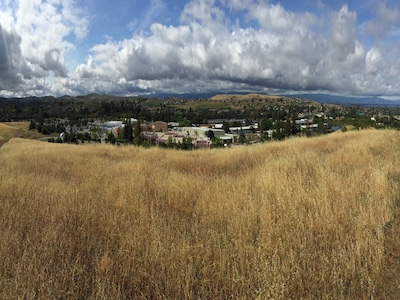
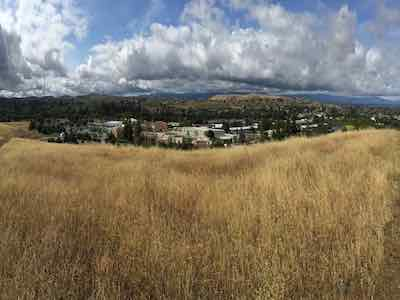
updated homepage images to be non blurry, smaller size, with a 20kb ceiling for most of the assets

diff --git a/docs/sprint.md b/docs/sprint.md
@@ -14,15 +14,15 @@ TODO
 ------------------------------------    
 IN PROGRESS
 
-    - Update static assets images on homepage (2 pts)
-        - Size should be 400x300 
-        - They should not be blurry
+    
 
 ------------------------------------
 TEST
 
     - Create a 'Professional' section to homepage (3 pts)
-    
+    - Update static assets images on homepage (2 pts)
+            - Size should be 400x300 
+            - They should not be blurry
 
 ------------------------------------
 DONE

diff --git a/docs/backlog.md b/docs/backlog.md
@@ -25,7 +25,7 @@
     * Maybe we could pull changes from Git or Changelog and have link to newly changed content
  - Add linkedin section to professional page
  - Add text to some of the pages explaining what the page is about
- 
+ - Import a timeline react component
  
  
 ##### Image Uplaod Service
